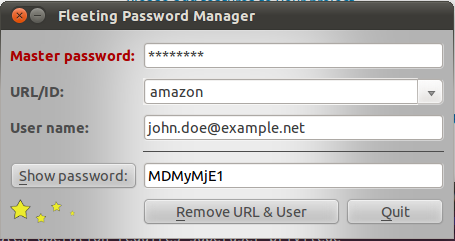
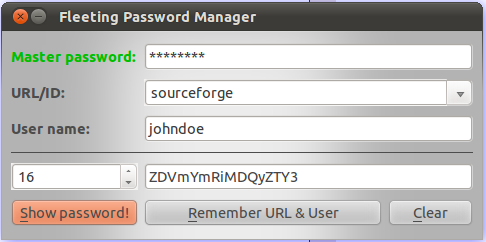
Changes: index.html updated.

diff --git a/web/index.html b/web/index.html
@@ -42,7 +42,7 @@ The user then changes her password to the one generated by Fleeting Password Man
 <p> 
 The generated passwords are always the same with the same input and <b>are not stored to anywhere</b>, which is actually the whole point of Fleeting Password Manager. The length of the generated password is configurable between 8 and 32 characters and Fleeting Password Manager can remember wanted URL/User-pairs. 
 </p>
-<p>Fleeting Password Manager is currently being developed on <a href="http://www.ubuntu.com">Ubuntu Linux</a> and is written in Qt.</p>
+<p>Fleeting Password Manager is currently being developed on <a href="http://www.ubuntu.com">Ubuntu Linux</a> and is written in Qt. It runs on all major operating systems.</p>
 </p>
 <h2><a href="https://sourceforge.net/projects/fleetingpm/files/">Download here!</a></h2>
 
@@ -61,17 +61,29 @@ The generated passwords are always the same with the same input and <b>are not s
 </ul>
 
 <hr> 
-<h2>Screenshots (fleetingpm-2.3)</h2>
+<h2>Screenshots</h2>
 <p>
 <table border="0">
 <tr>
 <td><a href="screenshot.png"><img src="screenshot.png" width="256"></a></td>
+<td><a href="screenshot-win7.jpg"><img src="screenshot-win7.jpg" width="256"></a></td>
+<td><a href="screenshot-instructions.png"><img src="screenshot-instructions.png" width="256"></a></td>
+<td><a href="screenshot-about-2.6.png"><img src="screenshot-about-2.6.png" width="256"></a></td>
 </tr>
 </table>
 </p>
 
 <hr>
 <h2>Project News and Releases</h2>
+
+<p>
+<b>(19-Sep-11): fleetingpm-2.6 released for Linux and MS Windows</b><br>
+<ul>
+<li>Stars removed from the main layout</li>
+<li>Color change of "Master password" is gradual</li>
+<li>Layout improved</li>
+</ul>
+</p>
 
 <p>
 <b>(12-Sep-11): fleetingpm-2.5 released for Linux and MS Windows</b><br>
@@ -144,7 +156,7 @@ Copyright (c) Jussi Lind 2011
 
 <hr>
 <center><a href="http://picomol.de/2011/03/11/ubuntu-11-10-oneiric-ocelot-countdown"><img title="Ubuntu 11.10 days to go" src="http://picomol.de/ubuntu-oneiric-counter/234.png" alt="Ubuntu 11.10 days to go" /></a></center>
-<b><center><p>Latest update on 12-Sep-2011</p></center></b>
+<b><center><p>Latest update on 19-Sep-2011</p></center></b>
 </body>
 </html>
 
